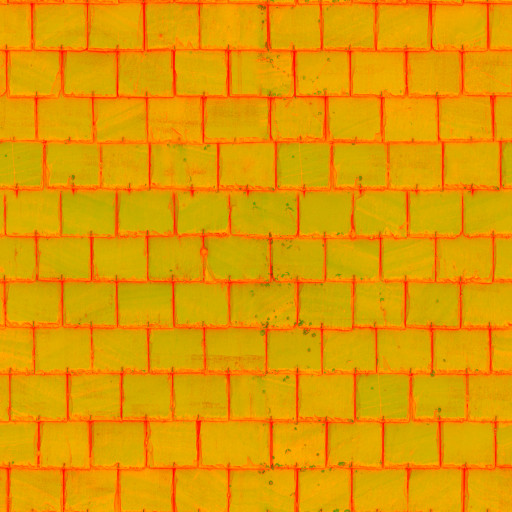
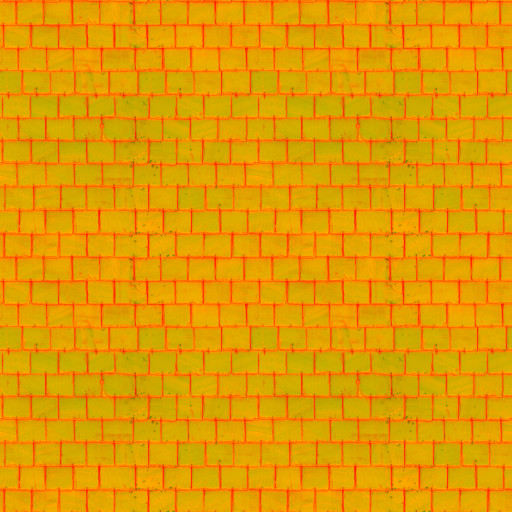
Authoring guide: textures (the array, every layer's source and tile, sampling, packing scans, adding a layer, the sea)
§7 becomes a chapter: material ids (7.1); the 30-layer texture array, its channels and encoding, the file layout and
the procedural fallback, with every layer's source, shader tile and users (7.2); how a material samples, tints and
scales a layer (7.3); replacing a layer with a CC0 scan with tools/pack_materials.py and what went wrong doing it
(7.4); adding a layer (7.5); the other generated textures, the sea's wave bands among them (7.6). §0, §16 and §17
follow; the README describes the scans and the sea.

The packer gains `flip` (the walls' sample runs v up the wall): lap siding is stored the right way up. Roof tiles,
shingles and siding are fitted to the 3 m tile the building shader lays them at (shingles now repeat twice, at true
size; siding boards at about 11 cm).

Claude-Session: https://claude.ai/code/session_01PPEE1yZfPborst3wkozCEL

diff --git a/tools/pack_materials.py b/tools/pack_materials.py
@@ -30,7 +30,9 @@ NAMES = ["grass", "forest", "rock", "sand", "snow", "asphalt", "gravel", "dirt",
 #                  colour - keep this much of the scan's own colour variation about the matched mean (0..1, default 1);
 #                  contrast - scale its variation about the mean (default 1: a dark scan brought up to a light layer's
 #                             mean keeps a dark scan's contrast, which on white siding is too much);
-#                  bump - relief relative to the procedural layer's (default 1))
+#                  bump - relief relative to the procedural layer's (default 1);
+#                  flip - upside down: the walls' triplanar sample runs v up the wall, so a wall layer whose look
+#                         has an up (lap siding: each board's shadow line under the one above) is stored flipped)
 MANIFEST = {
     0:  ("acg:Grass004", 2.0, 5.0, {}),
     2:  ("ph:rock_face_03", 2.6, 18.0, {"stretch": True, "bump": 1.0}),
@@ -40,7 +42,7 @@ MANIFEST = {
     6:  ("acg:Gravel022", 1.0, 2.0, {}),
     7:  ("ph:dry_ground_rocks", 4.0, 5.0, {}),
     8:  ("ph:concrete_floor_worn_001", 3.0, 3.5, {}),
-    9:  ("ph:clay_roof_tiles_02", 2.5, 2.0, {"contrast": 0.5}),
+    9:  ("ph:clay_roof_tiles_02", 2.5, 3.0, {"contrast": 0.5}),
     10: ("ph:roof_slates_03", 3.0, 3.0, {}),
     11: ("acg:PaintedPlaster017", 2.0, 2.5, {}),
     12: ("ph:red_brick", 1.3, 1.4, {}),
@@ -53,8 +55,8 @@ MANIFEST = {
     25: ("ph:bark_brown_02", 0.9, 0.9, {}),
     26: ("ph:weathered_brown_planks", 1.7, 2.0, {"contrast": 0.7}),
     27: ("ph:forest_floor", 2.1, 4.0, {}),
-    28: ("ph:grey_roof_tiles_02", 1.5, 2.0, {"contrast": 0.7}),
-    29: ("acg:WoodSiding008", 2.0, 1.5, {"contrast": 0.6}),
+    28: ("ph:grey_roof_tiles_02", 1.5, 3.0, {"contrast": 0.7}),
+    29: ("acg:WoodSiding008", 2.0, 3.0, {"contrast": 0.6, "flip": True}),
 }
 
 
@@ -141,6 +143,9 @@ def read_old(old_dir, l):
 
 def pack(l, src, size, tile, opt, old_dir, cache, out):
     m = fetch(src, cache)
+    if opt.get("flip"):   # (rows reversed: the normal's green, a slope down the image, turns over with them)
+        m = {k: v[::-1].copy() for k, v in m.items()}
+        m["nrm"][..., 1] = 1.0 - m["nrm"][..., 1]
     reps = 1 if opt.get("stretch") else max(1, int(round(tile / size)))
     content = tile / (reps * size)
     col = fit(srgb_to_lin(m["col"]), reps)

diff --git a/docs/AIRCRAFT_AUTHORING.md b/docs/AIRCRAFT_AUTHORING.md
@@ -2,7 +2,7 @@
 
 How to add an aircraft to Solace Express, from its numbers to its shape, materials, moving parts, cockpit, weapons,
 sound, career role and tests. It is written for whoever adds the next type, a person or an AI assistant, and reflects
-the code at v3.32.0. Where the code and this guide disagree, the code wins: fix the guide in the same change.
+the code at v3.33.0. Where the code and this guide disagree, the code wins: fix the guide in the same change.
 
 Older material, kept for its history: `docs/design/additional-aircraft/` (Codex's proposals for the Swift S6, the
 Osprey C6 and the XR-10 / XR-20).
@@ -11,7 +11,8 @@ Osprey C6 and the XR-10 / XR-20).
 
 ## 0. In one page
 
-An aircraft is **data first**. Nothing is modelled in a 3D package and nothing is loaded from files:
+An aircraft is **data first**. Nothing is modelled in a 3D package, and the only image files are the shared surface
+textures (§7.2), never one made for an aircraft:
 
 | Part of the aircraft | Where it comes from |
 |---|---|
@@ -309,20 +310,20 @@ code sits behind `RESEARCH_ON`, which the `AF_LIGHT` builds compile out, so the 
 
 ## 7. Materials and textures
 
-There are **no per-aircraft image textures.** Every surface samples one 512² array of 30 PBR texture sets (albedo,
-roughness, a normal, height and AO), loaded at launch by `Renderer::genMaterials`: a layer comes from the CC0 scans in
-`assets/materials` (Poly Haven and ambientCG, packed by `tools/pack_materials.py`) when it has one, and from the
-procedural generator in `src/materials.cpp` when it doesn't (the foliage, needles, aircraft paint, tyre rubber, crops
-and forest canopy). The aircraft use `M_PAINT`, `M_METAL`, `M_RUBBER`, `M_PLASTIC`, `M_FABRIC`, `M_CARPET` and
-`M_LEATHER`; the rest are terrain and buildings. A material is GLSL that fills a `Mat`
-(`alb`, `rough`, `metal`, `nrm`, `emit`) for a material id, usually from a triplanar sample:
+An aircraft has **no textures of its own and no UV mapping.** Its look is GLSL: a material function per material id
+(§7.1) that paints the livery, seams, rivets and placards procedurally and takes its surface detail from one shared
+array of 30 texture sets (§7.2), sampled triplanar in body space (§7.3). Adding an aircraft never adds an image file.
+
+A material fills a `Mat` (`alb`, `rough`, `metal`, `nrm`, `emit`) for a material id, usually from a triplanar sample:
 
 ```glsl
 tx = triSample(lp, ln, M_METAL, 0.25, nT);   // body-space position and normal, set, scale (m), out: tangent-space normal
 m.alb = tx.rgb*vec3(0.62, 0.63, 0.65); m.metal = 0.9; m.rough = clamp(tx.a*0.6, 0.15, 0.5); m.nrm = nT;
 ```
 
-**Material ids** (`plane_material.glsl`, `planeMaterialN`), as the field returns them in `.y`:
+### 7.1 Material ids
+
+Material ids (`plane_material.glsl`, `planeMaterialN`), as the field returns them in `.y`:
 
 | Ids | What | Handled where |
 |---|---|---|
@@ -352,12 +353,123 @@ Rules learned the hard way:
   automatic for Tier A.
 - **Night:** scale lamp emission by `uNight`. Keep cockpit glows dim: a lit compass at full strength was the brightest
   thing in the cabin.
-- **A new texture set** is a new layer: a `case` in the generator (`materials.cpp`, its fallback and the reference the
-  packer matches to), its name in `materials.cpp`'s table, a new `M_*` constant in `scene_uniforms.glsl`, and one more
-  layer of memory for every GPU. To give it a scan, add it to `pack_materials.py`'s manifest (source, real size, the
-  tile the shaders use) and run the packer: it fits the scan to the tile seamlessly and matches its mean colour,
-  roughness and relief to the generator's, so a scan never changes a material's palette. Prefer reusing a set with a
-  new tint, scale or pattern.
+
+### 7.2 The texture array
+
+`Renderer::genMaterials` (`renderer.cpp`) builds two `GL_TEXTURE_2D_ARRAY`s of 30 layers, 512² each, mipmapped, 8×
+anisotropic, repeating: **`uAlb`** (rgb the albedo stored as the square root of linear - the shaders square it - and
+alpha the roughness) and **`uNrm`** (rg the tangent-space normal's x and y, DirectX's convention: green is a slope
+*down* the image; b the height; a the ambient occlusion). About 84 MB with the mips, loaded once at launch.
+
+Each layer comes from **`assets/materials`** (shipped beside the exe as `materials/`) when its three files are there:
+`NN_name_c.jpg` (albedo), `NN_name_n.jpg` (normal x, y and height), `NN_name_m.jpg` (roughness in red, AO in green),
+all exactly 512². Otherwise - a file missing, unreadable or the wrong size - the layer is made by the **procedural
+generator**, `materialProcLayer` in `src/materials.cpp`, silently. So a game without the folder still runs, and
+the render harness can show the old look with `MATDIR=""`.
+
+| # | `M_` | Source | Shader tile (m) | Used by |
+|---|---|---|---|---|
+| 0 | `M_GRASS` | ambientCG Grass004 | 4-6 | terrain, airfield grass |
+| 1 | `M_FOREST` | procedural (crowns from above) | 26 | terrain forest |
+| 2 | `M_ROCK` | Poly Haven rock_face_03, stretched | 18 | terrain cliffs, rocks |
+| 3 | `M_SAND` | Poly Haven aerial_beach_01 | 6 | beaches |
+| 4 | `M_SNOW` | ambientCG Snow006 | 8 | snow |
+| 5 | `M_ASPHALT` | Poly Haven asphalt_04 | 6-7 | runways, taxiways, roads |
+| 6 | `M_GRAVEL` | ambientCG Gravel022 | 2-6 | gravel strips, aprons |
+| 7 | `M_DIRT` | Poly Haven dry_ground_rocks | 4-7 | soil, tracks |
+| 8 | `M_CONCRETE` | Poly Haven concrete_floor_worn_001 | 1.6-5 | aprons, walls, towers |
+| 9 | `M_TILES` | Poly Haven clay_roof_tiles_02 | 3 | roofs |
+| 10 | `M_SLATE` | Poly Haven roof_slates_03 | 3 | roofs, the church |
+| 11 | `M_PLASTER` | ambientCG PaintedPlaster017 | 2.5 | walls |
+| 12 | `M_BRICK` | Poly Haven red_brick | 1.4 | walls |
+| 13 | `M_LEAVES` | procedural | 0.75-3 | broadleaf trees |
+| 14 | `M_NEEDLES` | procedural | 0.9 | conifers |
+| 15 | `M_PAINT` | procedural (white, orange peel) | 0.6-0.9 | aircraft paint |
+| 16 | `M_METAL` | ambientCG Metal009 (brushed) | 0.25-2 | aircraft, hangars, fixtures |
+| 17 | `M_RUBBER` | procedural (tyre tread grooves) | 0.08-0.35 | tyres, seals |
+| 18 | `M_PLASTIC` | ambientCG Plastic012A | 0.2-0.4 | cockpit panels, trim |
+| 19 | `M_FABRIC` | ambientCG Fabric030 | 0.08-0.3 (4 once) | seats, headliner |
+| 20 | `M_CARPET` | ambientCG Carpet012 | 0.15 | cabin floors |
+| 21 | `M_LEATHER` | ambientCG Leather030 | 0.25-0.3 | seats, yoke grips |
+| 22 | `M_CORRUGATED` | Poly Haven corrugated_iron | 1-4 | hangars, warehouses |
+| 23 | `M_CROP` | procedural (rows) | 4 | fields |
+| 24 | `M_WHEAT` | procedural | 4 | fields |
+| 25 | `M_BARK` | Poly Haven bark_brown_02 | 0.8-1 | tree trunks |
+| 26 | `M_PLANKS` | Poly Haven weathered_brown_planks | 2 | docks, sheds |
+| 27 | `M_LITTER` | Poly Haven forest_floor | 4 | forest floor |
+| 28 | `M_SHINGLES` | Poly Haven grey_roof_tiles_02 | 3 | roofs |
+| 29 | `M_SIDING` | ambientCG WoodSiding008, flipped | 3 | house walls |
+
+The constants live in `scene_uniforms.glsl` (and `ent_fs1.glsl` for the scenery). Every scan is CC0, credited in
+`THIRD_PARTY_NOTICES.md`; `tools/pack_materials.py`'s manifest is the record of what each layer was made from.
+
+### 7.3 Using a layer in a material
+
+- **Samplers.** `triSample(p, n, layer, scale, out nTS)` (`material_common.glsl`) blends three planar projections by
+  the normal and, in each, the tile at `scale` metres with a second at 4.7× mixed 35% (it breaks the repeat). Terrain
+  uses `groundSample` (two rotated lookups blended by noise and height, a macro layer, the AO); the scenery its own
+  `triS` (`ent_fs2.glsl`). The sample's albedo comes back linear.
+- **`scale` is the tile size in metres** and should match the "shader tile" column: the scans were fitted to it.
+  Twice the scale is twice-size planks.
+- **Colour is a tint.** Each scanned layer keeps the average colour of the procedural layer it replaced (§7.4), so a
+  material's `tx.rgb * tint` gives the colour it always had. Pick the tint for the colour you want; don't fight the
+  layer's mean.
+- **Relief:** `m.nrm = nT` at full strength, or scaled (`nT*0.7`) for a softer surface. Under a low sun, strong relief
+  on fine detail reads as grain (§7.4, "speckle").
+- **Roughness** comes in `tx.a`; most materials clamp or scale it to their own range.
+- **Metal** is the material's call (`m.metal`), not the layer's.
+
+### 7.4 Replacing a layer with a scan
+
+1. **Choose the scan.** CC0 only (Poly Haven, ambientCG). It needs a colour map and a DirectX normal map; roughness,
+   AO and displacement are used when there. Prefer even, unremarkable surfaces: one striking feature (a long crack, a
+   stain) repeats visibly every tile. Note its real width (Poly Haven lists it; ambientCG doesn't, so judge it from a
+   feature of known size).
+2. **Dump the procedural layers:** `cmake --build build --target material_dump && build/material_dump /tmp/old`. The
+   packer matches each scan to these.
+3. **Add a manifest row** in `tools/pack_materials.py`: `layer: ("ph:id" or "acg:Id", real width m, shader tile m,
+   options)`. The packer repeats the scan a whole number of times to fill the tile (or, with `stretch`, fits it
+   whole: a 2.6 m rock face read as an 18 m cliff), box-filters it to 512² (seamless), and then matches the procedural
+   layer: the per-channel mean colour, the mean roughness, and the mean slope (held to 0.5-2× the scan's own).
+   Options: `colour` (how much of the scan's own colour variation to keep), `contrast` (scale its variation about
+   the mean), `bump` (relief against the procedural layer's), `flip` (upside down, for a wall layer with an up).
+4. **Pack:** `tools/pack_materials.py --old /tmp/old --only N` (downloads are cached in `~/.cache/solace-materials`).
+   It prints the repeat, the content's scale against its real size, the colours matched and the relief gain.
+5. **Look at it** next to the old layer (the `_c.jpg` against the dump's `_alb.ppm`), then in the game: the render
+   harness reads `assets/materials` (`MATDIR=""` for the procedural look), so render the same scenes both ways -
+   an `apv_` airport view, `ckv` cockpits, `mountain`, `loadshot_` - and compare.
+6. **Commit the three JPEGs** with the manifest change. Nothing else ships or needs rebuilding: no cache keys on the
+   textures.
+
+Learned the hard way:
+
+- **Speckle is usually relief, not shadows.** The generated fabric and plastic had strong, coarse bumps; under a
+  grazing sun the Osprey's window arches looked like shadow acne. The scans and a soft `nT` fixed it.
+- **A flat scan raised to the generator's relief amplifies its grain** (asphalt by 8×, concrete by 23× before the 2×
+  clamp): its noise becomes speckle. The clamp is there for that.
+- **A dark scan matched to a light layer keeps its contrast**: white siding from dark boards came out striped black
+  and white. Use `contrast` 0.5-0.7.
+- **Scale and repeat show on runways and roofs first.** A prominent crack every 3 m down a runway, roof tiles the
+  size of paving slabs: check the content scale the packer prints and the shader's real tile.
+- **Walls run v up the wall**, so the image's top is at the bottom of the wall: `flip` a layer whose look has an up.
+- **The normal map must be DirectX's** (green down). A GL map lights every bump from the wrong side.
+- **JPEGs are 4:4:4** (`subsampling=0`); chroma subsampling smears the normal map's x and y.
+
+### 7.5 Adding a layer
+
+A new set is a new layer for every GPU (about 2.8 MB with mips), so first try an existing one with a new tint, scale
+or pattern. If it must be new: bump `kMatLayers` (`materials.h`), add its name to `materials.cpp`'s table and a
+`case` to the generator (the fallback, and the reference a scan is matched to), add an `M_*` constant in
+`scene_uniforms.glsl` (and `ent_fs1.glsl` if the scenery uses it) and its name to `NAMES` in the packer, then give it
+a scan (§7.4) if one fits.
+
+### 7.6 Other generated textures
+
+Built at launch in `renderer.cpp`, none tied to an aircraft: the cloud coverage map and 3D noise (`genCloudNoise`), the
+minimap (`genMinimap`), and the sea's wave bands (`genWaves`): three tileable maps of slope and height, 256², from a
+Phillips spectrum by inverse FFT (wavelengths 16-128 m, 2-16 m and 0.25-2 m). `water.glsl` scrolls each at its waves'
+phase speed down the actual wind (`uWindV`), twice at crossing angles, scales the slope to the wind (Cox and Munk) and
+puts whitecaps on the crests as the wind rises. A seaplane or a ditching reads the sea from there.
 
 ---
 
@@ -531,6 +643,8 @@ cockpit muffling inside. A new type gets its sound from `engineType`, `engines`,
    - `ckv<i>_<yaw>_<pitch>_<hour>[_<roll>[_<flaps>]]`: the cockpit (`settle=30` lets the anti-aliasing settle);
    - `loadshot_<CODE>`, `loadshot_air_<i>`: the loading pictures (`settle=40`, 1920×1080);
    - `research` (the XR-30 selected), `research10`, `research20`, `research40`: the research terminal.
+   - `apv_<CODE>_<view>_<hour>`, `mountain`, `sunset`, `storm`: the world, for textures and the sea. The harness loads
+     the scanned textures from `assets/materials` (`MATDIR=""` for the procedural ones, §7.4).
 6. **On the owner's GPU:** `SolaceExpress.exe --shots gav_<i>_120_10_0,ckv<i>_0_-8_11 --size 1920x1080`, then
    `diagnostics.bat` for the frame-time gate (§8). `SolaceExpress.exe --loadshots` re-renders every loading picture.
 
@@ -555,7 +669,7 @@ cockpit muffling inside. A new type gets its sound from `engineType`, `engines`,
 loops (§2) to it, and add its terminal entry, test cards and scenery spot (§15).
 
 **Tier B:** all of the above, plus a new engine code and its dispatch (§6), its field behind `RESEARCH_ON`, its parts
-and their `partList` branch and bake boxes (§9), its material range (§7), its cockpit (generic, or sealed with
+and their `partList` branch and bake boxes (§9), its material range (§7.1), its cockpit (generic, or sealed with
 camera feeds), its physics path if it needs a new `special` (§5), its effects (§12), and a measured frame time on the
 owner's GPU (§8).
 

diff --git a/README.md b/README.md
@@ -23,7 +23,7 @@ A pilot-career flight game for Windows with a detailed real-time 3D world drawn 
 - **Correct control movement.** Every control surface, plus the nose or tail wheel, moves in the same direction as the input and the aircraft's actual response. A test (`tests/flight_test.cpp`) checks this for every aircraft.
 - **Living world.** The terrain is a smooth heightfield (39 m base grid, filtered so big landforms have no faceted creases) with detailed ground textures (grass, leaf-litter forest floor, rock, sand, snow, farmland, roads). Everything standing on it is a separate entity: 7 kinds of tree (fir, spruce, Scots-style pine with tufted branch whorls, oak, birch, palm and bush) picked by climate and altitude, with bark, leafy crowns of alpha-cut leaf sprays that sway in the wind, and needles that take snow. Rocks come as boulders, blocks, slabs, mountain outcrops, sandstone spires and stratified sea stacks. 17 kinds of building fill 18 hand-placed settlements, from two cities with glass towers, setback towers and apartment blocks, to towns of shops, townhouses, churches, water towers and gas stations, and villages of gabled, hip-roofed and L-shaped houses with gardens. Farmsteads with barns, silos and machine sheds sit in the fields, and a lighthouse with a turning lamp stands on Lighthouse Key. Patchwork farmland has crop rows, wheat, ploughed soil, rapeseed, vineyards, wildflower meadows and hedgerows. Windows, shop fronts, signs and canopies light up at night, and a hand-drawn road network with lane markings links the towns. All of it is solid: fly into a tree, a rock or a building and you'll crash. Plasma blasts flatten whatever stands in them.
 - **Airports.** Every airport is laid out like the real thing, to its size. International hubs have a parallel taxiway with exits, a big concrete apron with gates where airliners sit nosed in to a glass terminal on jet bridges, freighters at the cargo sheds, GA tie-down rows, maintenance hangars, a tall control tower, a fuel farm, a radar dome, floodlight masts, car parks full of cars, and a perimeter fence around it all. Regional airports scale that down: a terminal with a turboprop or regional jet on the apron, T-hangar rows, a flight centre, a fuel farm and bowser. The small strips each have their own character: a farm strip with its barn and silo, a mountain rescue strip, a volcano observatory with a radome, a polar research station, an island club field, each with a Quonset or steel hangar, a club house, a fuel pump, parked aircraft and windsocks that stream with the wind. Navigation aids stand where they belong (ILS localizer arrays beyond the runway ends, glide-slope masts beside the touchdown zones, rotating green-and-white aerodrome beacons). Runways get concrete slabs or grooved asphalt, painted runway numbers and blast-pad chevrons; taxiways get yellow centre lines, edge lines and holding-position markings at every exit, blue edge lights at night, and aprons get stand lead-in lines, stop bars, tie-down markings and floodlit pools of light. AI traffic parks on those stands and taxis on those taxiways.
-- **PBR materials.** 30 tileable PBR texture sets (albedo, roughness, normal, height, AO) are generated at startup. They cover terrain (including leaf-litter forest floor), buildings (concrete, clay tiles, slate, asphalt shingles, plaster, brick, lap siding, wood planks, corrugated metal), vegetation (bark, leaves, needles, crops, wheat) and aircraft (paint, brushed metal, tyre rubber, cockpit plastic, seat fabric, leather, carpet). They're lit with GGX/Cook-Torrance shading, triplanar on cliffs, and darken and get glossier in the rain.
+- **PBR materials.** 30 tileable PBR texture sets (albedo, roughness, normal, height, AO): 23 are photo scans (CC0, from Poly Haven and ambientCG, matched to the world's palette by `tools/pack_materials.py`) and the rest are generated at startup. They cover terrain (including leaf-litter forest floor), buildings (concrete, clay tiles, slate, asphalt shingles, plaster, brick, lap siding, wood planks, corrugated metal), vegetation (bark, leaves, needles, crops, wheat) and aircraft (paint, brushed metal, tyre rubber, cockpit plastic, seat fabric, leather, carpet). They're lit with GGX/Cook-Torrance shading, triplanar on cliffs, and darken and get glossier in the rain. The sea is built from a real wave spectrum (swell, wind waves and ripples) that moves down the actual wind: glassy in a calm, choppy with whitecaps in a gale, with light through the wave crests.
 - **Air traffic.** The sky is busy. At the airports around you, aircraft park on the apron stands, taxi along the yellow lines with spacing, hold short, take off, fly a full circuit (crosswind, downwind, base, final), land on a glideslope, roll out, taxi back to their stand and go again. Arrivals join the downwind leg and are sequenced behind each other, some departures leave the area, and everyone holds or goes around if you're on the runway. Cruising traffic crosses the map at altitude. Every couple of minutes a formation of two or three XR-9s rips past at 400 m/s in reheat, sonic booms and all, before pulling up into a climbing roll. A two-ship Kestrel display team flies loops, rolls, barrel rolls, Immelmanns, split-S, Cuban eights, four-point rolls and hammerheads with white and red smoke over the nearest airport. All traffic is drawn with the full aircraft models, casts soft shadows, shows nav lights, beacons, strobes and landing lights at night, and can be switched off in Settings (*Air traffic*). Watch out: a mid-air is fatal.
 - **Close encounters.** Every so often, when you're well clear of the ground, something swoops in from behind and settles alongside. Watch the hatch.
 - **Crashes.** Explosions are layered: a white-hot flash that lights the scene, a fireball whose flames cool from yellow to deep red as they billow and rise, a smoke column that keeps climbing and spreading, arcing sparks, burning fragments trailing fire and smoke, and a shock ring, with secondary blasts as the fuel goes up. On impact the aircraft breaks into its nose, centre section, both wings and tail. Each piece is a separately simulated rigid body that tumbles, bounces and comes to rest, blackened and burning with glowing embers at the breaks. Skin fragments scatter around the site. The impact blows a crater into the terrain with a scorched blast ring and smouldering embers, flattening the trees and buildings around it, and the camera orbits the wreck. Overstress an airframe in flight and it rips apart in the air: the tanks flash into a fireball smeared along the flight path, torn skin and fuel mist stream away, and the pieces go off again one after another, each falling piece streaming a flame jet and a continuous smoke trail. They keep their momentum, tumble out of the sky trailing fire and black smoke, and each one smashes into the ground (or the sea) where it falls, with the centre section digging the crater. Crashing into water throws spray; the pieces float for a moment, then sink to the seabed trailing bubbles, and the skin fragments flutter down after them.
@@ -220,7 +220,7 @@ src/entity_mesh.*  procedural tree, rock and building meshes (3 LODs each)
 src/entity_render.cpp, src/entity_shaders.h   instanced G-buffer + shadow-cascade passes, culling, LOD
 src/aircraft_mesh.cpp   the aircraft meshes baked from their shapes, the cockpit's moving parts, the mesh cache
 src/aircraft_hull.cpp, src/hull_mesh.h   the moving parts' hulls: where the per-pixel pass for the moving surfaces starts
-src/renderer.*     GL pipeline, procedural PBR texture synthesis, bloom/tonemap, SDF text UI
+src/renderer.*     GL pipeline, the material texture array (scans + procedural, src/materials.cpp), sea wave bands, bloom/tonemap, SDF text UI
 src/audio.*        procedural audio engine (engines, environment, effects, UI)
 src/game*.cpp      game flow, flight session, cameras, particles, lights, HUD and menus
 src/platform_win32.cpp, src/radio_win.cpp   Win32 window/input/audio output, Media Foundation radio
